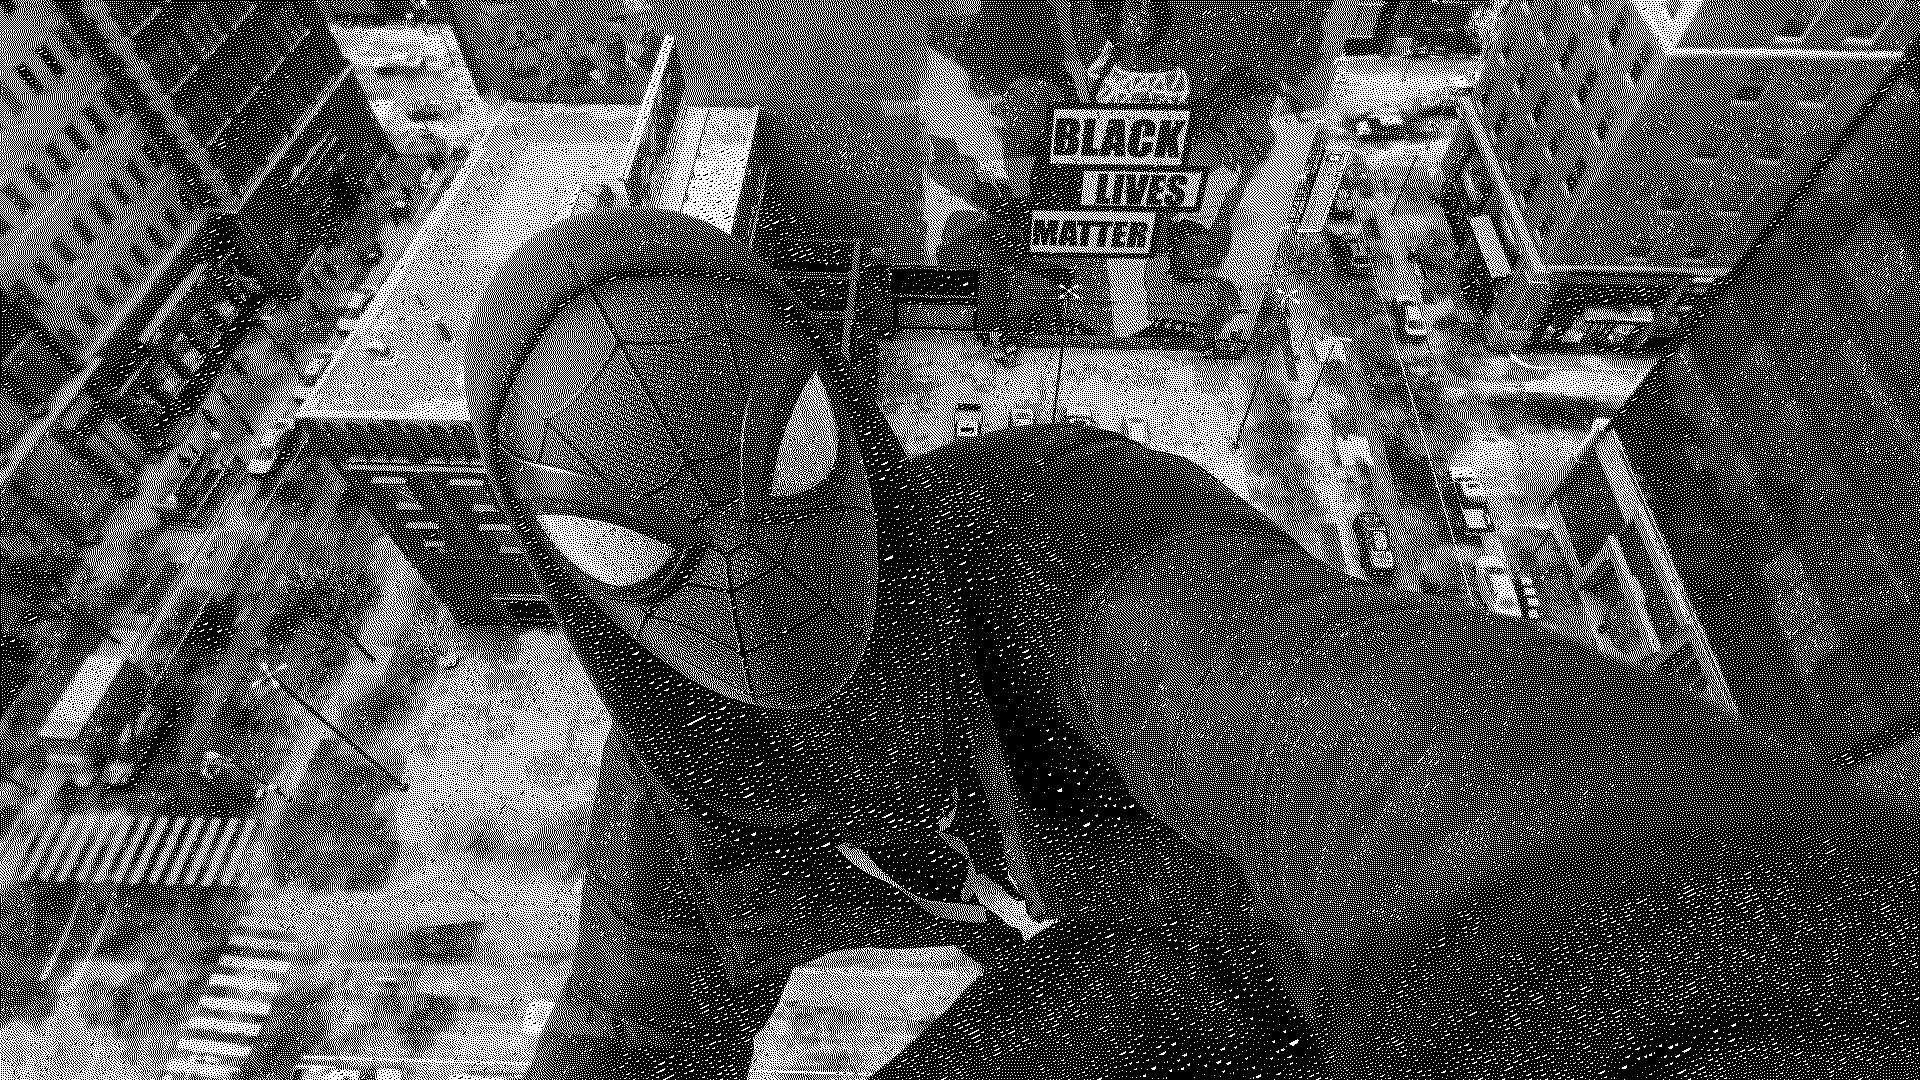
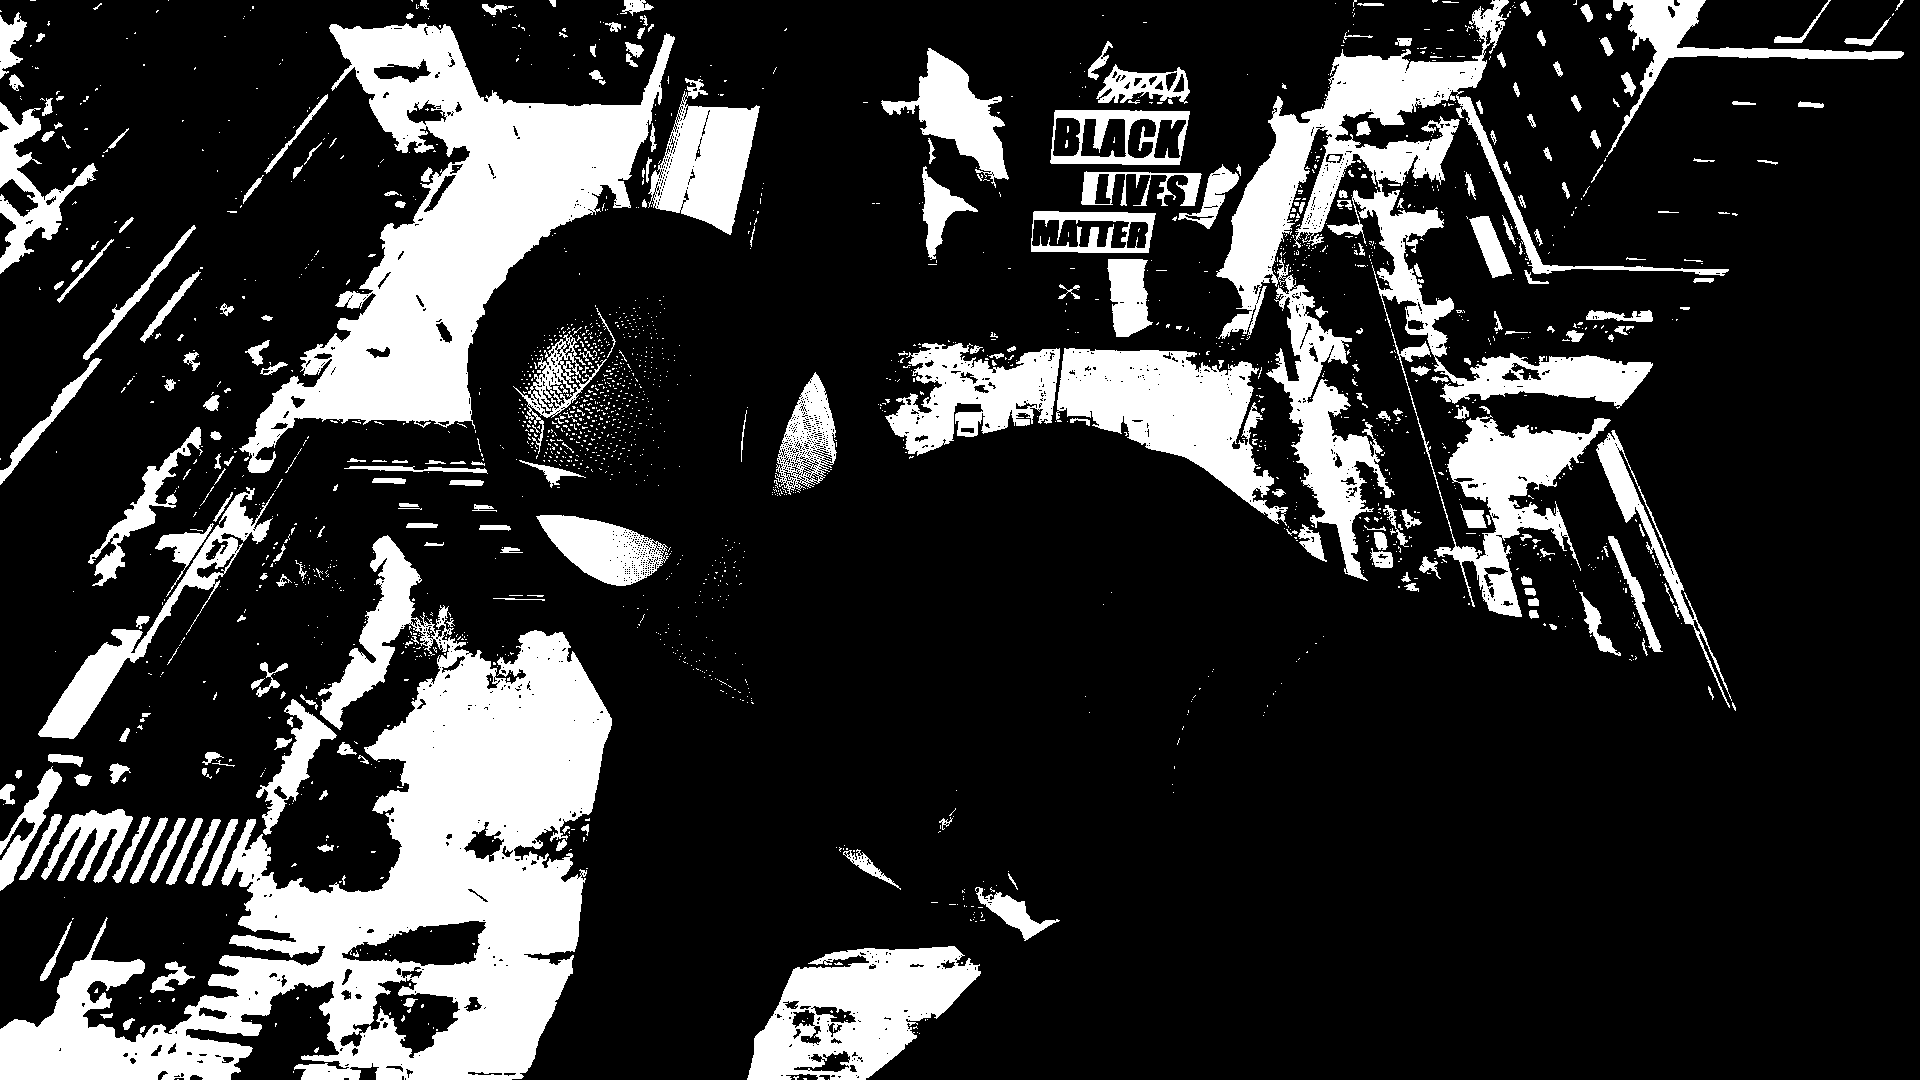
implemented dotSizeFactor

Changed region(s): [[0.0, 0.0, 1.0, 1.0]]

diff --git a/halftone-renderer/src/main.cpp b/halftone-renderer/src/main.cpp
@@ -1,19 +1,11 @@
-#define STB_IMAGE_IMPLEMENTATION    // Implement stb_image.h
+#define STB_IMAGE_IMPLEMENTATION
 #include "stb_image.h"
 
-#define STB_IMAGE_WRITE_IMPLEMENTATION  // Implement stb_image_write.h
+#define STB_IMAGE_WRITE_IMPLEMENTATION
 #include "stb_image_write.h"
 
 #include <iostream>
 #include <vector>    // For using heap-allocated memory for large data
-#include <windows.h> // For Windows-specific functions
-
-// Safe wrapper around sprintf to avoid deprecation warnings
-#ifdef _MSC_VER
-    #define snprintf sprintf_s
-#else
-    #define snprintf snprintf
-#endif
 
 // Safely load and convert image data
 void safeLoadImage(const char* imagePath, unsigned char** imgData, int* width, int* height, int* channels) {
@@ -24,25 +16,36 @@ void safeLoadImage(const char* imagePath, unsigned char** imgData, int* width, i
     }
 }
 
-// Floyd-Steinberg dithering algorithm with heap allocation for large data
-void applyFloydSteinbergDithering(unsigned char* data, int width, int height, int channels) {
-    std::vector<int> errorBuffer(width * height * channels, 0); // Allocate on heap
-    for (int y = 0; y < height; ++y) {
-        for (int x = 0; x < width; ++x) {
-            int index = (y * width + x) * channels;
-            int oldPixel = data[index];
-            int newPixel = oldPixel < 128 ? 0 : 255;
-            data[index] = newPixel;
-            int error = oldPixel - newPixel;
+// Modified Floyd-Steinberg dithering with block size (dot size control)
+void applyHalftoneDithering(unsigned char* data, int width, int height, int channels, int dotSizeFactor) {
+    for (int y = 0; y < height; y += dotSizeFactor) {
+        for (int x = 0; x < width; x += dotSizeFactor) {
+            // Average the pixel values within the block (dot)
+            int sum = 0;
+            int pixelCount = 0;
 
-            if (x + 1 < width)
-                data[(y * width + (x + 1)) * channels] += error * 7 / 16;
-            if (x - 1 >= 0 && y + 1 < height)
-                data[((y + 1) * width + (x - 1)) * channels] += error * 3 / 16;
-            if (y + 1 < height)
-                data[((y + 1) * width + x) * channels] += error * 5 / 16;
-            if (x + 1 < width && y + 1 < height)
-                data[((y + 1) * width + (x + 1)) * channels] += error * 1 / 16;
+            // Loop through the pixels in the block
+            for (int dy = 0; dy < dotSizeFactor && (y + dy) < height; ++dy) {
+                for (int dx = 0; dx < dotSizeFactor && (x + dx) < width; ++dx) {
+                    int index = ((y + dy) * width + (x + dx)) * channels;
+                    sum += data[index];
+                    pixelCount++;
+                }
+            }
+
+            // Calculate the average brightness of the block
+            int average = sum / pixelCount;
+
+            // Determine the new pixel value (black or white) based on the average
+            int newPixel = (average < 128) ? 0 : 255;
+
+            // Set the new pixel value for the entire block
+            for (int dy = 0; dy < dotSizeFactor && (y + dy) < height; ++dy) {
+                for (int dx = 0; dx < dotSizeFactor && (x + dx) < width; ++dx) {
+                    int index = ((y + dy) * width + (x + dx)) * channels;
+                    data[index] = newPixel;
+                }
+            }
         }
     }
 }
@@ -53,8 +56,11 @@ int main() {
     int width, height, channels;
     safeLoadImage("assets/input.png", &imgData, &width, &height, &channels);
 
-    // Apply dithering
-    applyFloydSteinbergDithering(imgData, width, height, 1);
+    // Set the dot size factor (the larger the value, the larger the halftone dots)
+    int dotSizeFactor = 1;  // Increase this value to make the dots bigger
+
+    // Apply the modified halftone dithering
+    applyHalftoneDithering(imgData, width, height, 1, dotSizeFactor);
 
     // Save the dithered result
     if (stbi_write_png("assets/output_dithered.png", width, height, 1, imgData, width)) {
